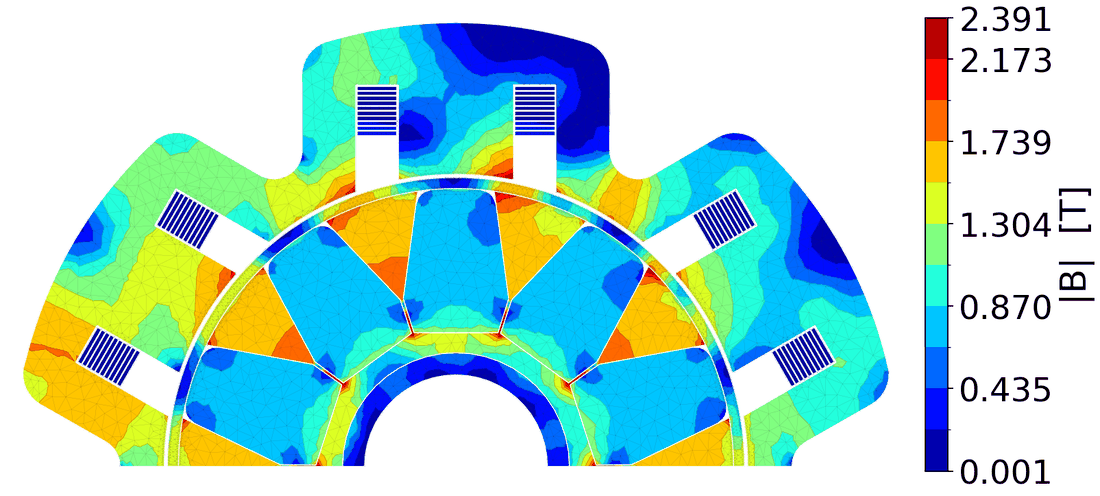
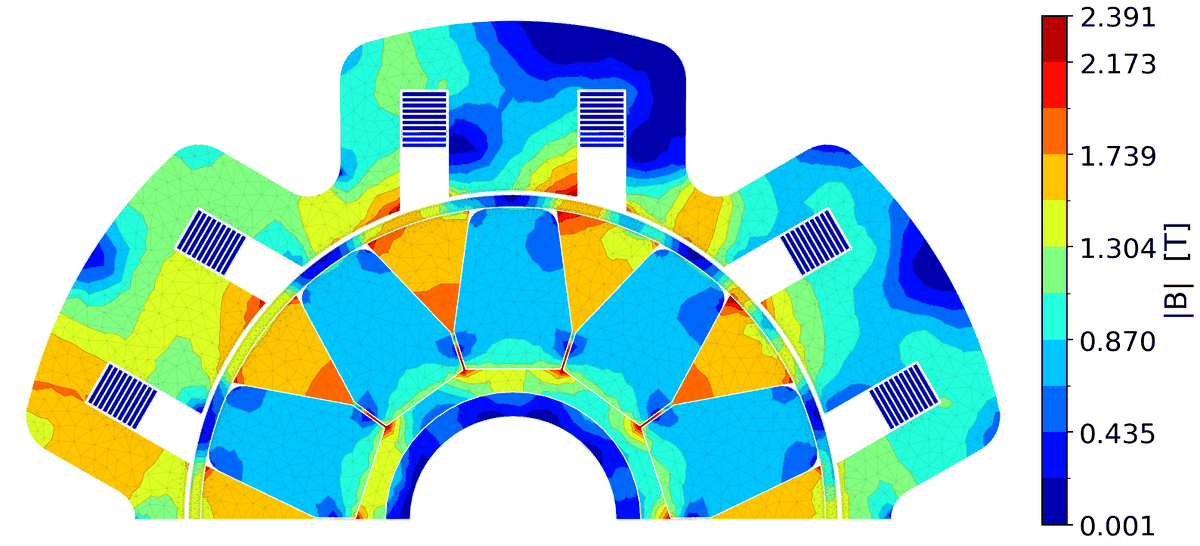
web: the landing's pictures are the page — bigger cards, rotor + sleeve instead of the Campbell diagram
User 2026-09-16, on the live page: the three pictures were ~390 px wide and
~180 px tall and he wanted them to dominate; and the third card should show
the ROTOR WITH ITS SLEEVE — «механическое моделирование» — not a Campbell
diagram.

  * the content row goes 1040 -> 1400 px, so each card is ~442 px wide
    instead of ~340 (the headline keeps its own 1100 px measure: a line of
    type that size is unreadable across a 1400 px row);
  * the picture box is 1.4:1 and ~307 px tall at 1440, up from ~180.  1.4 is
    the tallest the three share: the rotor is 1.15:1 and fills its height
    exactly, the two half-machine maps are 2.2:1 and keep a white band above
    and below — invisible, because the figures' own ground is the same white.
    The box also needed `minHeight: 0`, or a picture taller than the ratio
    pushes a flex box past its own aspect-ratio and only that card grows;
  * the third card is `rotor-displacement.png` — report._mech_extra_maps(...)
    ["disp"] off the same duty's `fields/rotor_stress.npz` (CIANO10 200 opt /
    L155 motor / rated 1x9 mm): the whole ring — sleeve, magnets, rotor iron —
    drawn deformed (exaggerated 22.2x, the report's own rule) and coloured by
    |u| from 6.8 to 146 um.  Label "Mechanical simulation";
  * all three re-rendered at 1200 / 1000 px for the bigger placement and
    placed at one width (12 cm), so the three colour bars carry the same size
    of tick label.  219 / 216 / 270 KB, inside the 300 KB budget.
[…]

diff --git a/web/src/components/landing/Landing.tsx b/web/src/components/landing/Landing.tsx
@@ -72,11 +72,14 @@ export const FEATURES: Feature[] = [
     hint: 'Temperature of the same machine, coupled to the losses of the same run.',
   },
   {
-    label: 'Reports & datasheets',
-    src: '/landing/campbell.png',
-    alt: 'Campbell diagram: whirl frequencies against shaft speed, with the '
-      + 'rated speed marked and the first critical crossing above it.',
-    hint: 'A Campbell diagram as the generated report prints it.',
+    label: 'Mechanical simulation',
+    src: '/landing/rotor-displacement.png',
+    alt: 'Deformation map of the same rotor under its retaining sleeve: the '
+      + 'whole ring — sleeve, magnets, rotor iron — coloured by how far each '
+      + 'point moves at speed, 7 to 146 micrometres, with the colour bar '
+      + 'beside it and the shape exaggerated so the bending is visible.',
+    hint: 'The rotor and its sleeve at speed, coloured by displacement |u| — '
+      + 'the shape is exaggerated 22x so the bending can be seen.',
   },
 ];
 
@@ -136,13 +139,25 @@ const FeatureCard: React.FC<{ feature: Feature }> = ({ feature }) => (
       }}
     >
       {/* The figure keeps the report's own white ground in both themes, so the
-          picture on the card and the picture on the page are one picture. */}
+          picture on the card and the picture on the page are one picture.
+          THE PICTURE IS THE CARD (user 2026-09-16, on the first live page: the
+          images were ~180 px tall and he wanted them to dominate).  1.4:1 is the
+          tallest box the three fit: the rotor is 1.15:1 and fills its height
+          exactly, the two half-machine maps are 2.2:1 and keep a white band
+          above and below — invisible, because the figures' own ground is the
+          same white.  A taller box would only add white; a wider row is the
+          other half of the answer, and that is on the grid below. */}
       <Box sx={{
-        bgcolor: '#ffffff', aspectRatio: '2.2 / 1', display: 'flex',
-        alignItems: 'center', justifyContent: 'center', p: 1,
+        bgcolor: '#ffffff', aspectRatio: '1.4 / 1', p: 0.75,
+        // `minHeight: 0` or the flex box's automatic minimum lets a picture
+        // TALLER than 3:2 (the rotor is 1.15:1) push the box past its own
+        // aspect ratio — which is how the third card came out 80 px taller
+        // than the other two, with white under their labels to match.
+        minHeight: 0, overflow: 'hidden',
       }}>
         <Box component="img" src={feature.src} alt={feature.alt} loading="lazy"
-          sx={{ maxWidth: '100%', maxHeight: '100%', objectFit: 'contain' }} />
+          sx={{ width: '100%', height: '100%', objectFit: 'contain',
+            display: 'block' }} />
       </Box>
       <Typography component="h3" sx={{
         px: 1.75, py: 1.25, fontSize: '0.9rem', fontWeight: 600,
@@ -177,7 +192,11 @@ const Landing: React.FC = () => {
       {/* `minHeight: 100%` + centring, not `height` — the page sits in the
           middle of a tall window and still SCROLLS on a short one. */}
       <Box sx={{
-        maxWidth: 1040, mx: 'auto', px: { xs: 2.5, sm: 4 },
+        // 1400, not 1040: the pictures are the page, and three of them across a
+        // 1040 row came out 340 px wide (user 2026-09-16 on the live page).  The
+        // HEADLINE keeps its own narrower measure below — a line of type this
+        // size is unreadable at 1400.
+        maxWidth: 1400, mx: 'auto', px: { xs: 2.5, sm: 4 },
         py: { xs: 5, sm: 7 }, textAlign: 'center',
         minHeight: '100%', display: 'flex', flexDirection: 'column',
         justifyContent: 'center',
@@ -201,6 +220,7 @@ const Landing: React.FC = () => {
         <Typography component="h1" sx={{
           fontSize: { xs: '1.75rem', sm: '2.6rem' }, fontWeight: 700,
           letterSpacing: '-0.02em', lineHeight: 1.15, mb: 1.5,
+          maxWidth: 1100, mx: 'auto',
         }}>
           Design, simulate and document electric motors
         </Typography>
@@ -220,7 +240,7 @@ const Landing: React.FC = () => {
           startIcon={GOOGLE_CLIENT_ID ? <GoogleMark /> : undefined}
           sx={{
             // `alignSelf`, because the column above is a flex box and a button
-            // stretched to 1040 px is not a button, it is a bar.
+            // stretched across the whole row is not a button, it is a bar.
             alignSelf: 'center',
             textTransform: 'none', fontSize: '1rem', fontWeight: 600,
             px: 3.5, py: 1.25, borderRadius: 2,
